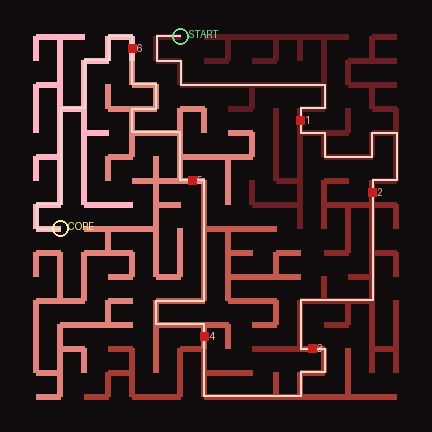
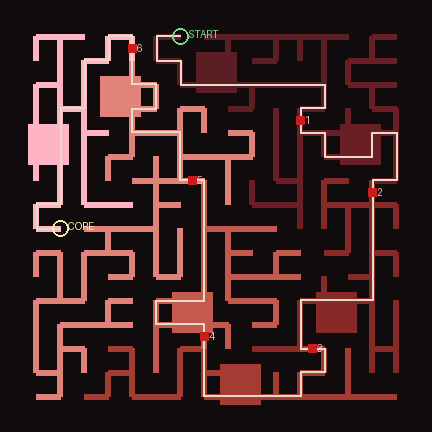
TND's city: plazas and streets
The player's choice: each district's heart -- the middle of its stretch
of the route -- opens into a plaza two nodes square, sized for a horde
fight, joined by the generator's streets and alleys; dead ends stay as
side alleys. Inside a plaza every neighbour is joined (the city's first
loops). 10 tests.

Claude-Session: https://claude.ai/code/session_01E1nQ3syAkWZFNt3GHAdQpF

diff --git a/games/tnd/city.py b/games/tnd/city.py
@@ -53,8 +53,9 @@ N_, E_, S_, W_ = 1, 2, 4, 8
 DIRS = ((0, 1, N_), (1, 0, E_), (0, -1, S_), (-1, 0, W_))   # (dx, dy, bit)
 OPP = {N_: S_, S_: N_, E_: W_, W_: E_}
 # piece kinds, by how many ways out and whether two are opposite
-DEAD, STRAIGHT, CORNER, TEE, CROSS = range(5)
-KIND_NAMES = ("dead end", "straight", "corner", "tee", "crossing")
+DEAD, STRAIGHT, CORNER, TEE, CROSS, PLAZA = range(6)
+KIND_NAMES = ("dead end", "straight", "corner", "tee", "crossing", "plaza")
+PLAZA_SPAN = 2                  # a plaza is PLAZA_SPAN x PLAZA_SPAN nodes, open
 
 
 def snake_path(s: int) -> tuple[list[int], int]:
@@ -95,6 +96,9 @@ class City:
     order: list[int] = field(default_factory=list)   # districts, in the order
                                                      # the route enters them
     flow: list[int] = field(default_factory=list)    # Terminal Limit's centrality
+    plaza: list[int] = field(default_factory=list)   # a plaza id a node, or -1
+    plazas: list[tuple[int, int]] = field(default_factory=list)   # each one's
+                                                     # lowest-left node (x, y)
 
     # ---- what the game needs ----------------------------------------------
     def xy(self, n: int) -> tuple[int, int]:
@@ -113,7 +117,10 @@ class City:
 
     def piece(self, n: int) -> tuple[int, int]:
         """(kind, quarter turns) of the piece at n. The unturned pieces:
-        dead end opens N; straight N-S; corner N-E; tee N-E-S (closed W)."""
+        dead end opens N; straight N-S; corner N-E; tee N-E-S (closed W);
+        a plaza's nodes are PLAZA, turn 0."""
+        if self.plaza and self.plaza[n] >= 0:
+            return PLAZA, 0
         bits = self.ways(n)
         k = bin(bits).count("1")
         for turn in range(4):
@@ -289,7 +296,46 @@ def generate(size: int = 16, seed: int = 666142, districts: int = 8) -> City:
             k += 1
             order.append(district[b])
     flow = _flow(adj, start)
-    return City(size, seed, adj, start, core, danger, district, gates, route, order, flow)
+    # PLAZAS AND STREETS (the player's choice, 2026-11-21): each district's
+    # heart -- the middle of its stretch of the route -- opens into a plaza
+    # PLAZA_SPAN nodes square, sized for a horde fight, joined by the
+    # generator's streets. Inside it every neighbour is joined (the open
+    # square), which is where the tree first grows loops.
+    plaza, plazas = [-1] * n, []
+    for d in range(nd):
+        stretch = [v for v in route if district[v] == d]
+        mid = stretch[len(stretch) // 2]
+        mx, my = mid % size, mid // size
+        best = None
+        for ox in range(-(PLAZA_SPAN - 1), 1):
+            for oy in range(-(PLAZA_SPAN - 1), 1):
+                x0, y0 = mx + ox, my + oy
+                if not (0 <= x0 and 0 <= y0 and x0 + PLAZA_SPAN <= size and y0 + PLAZA_SPAN <= size):
+                    continue
+                cells = [(x0 + i) + (y0 + j) * size for i in range(PLAZA_SPAN) for j in range(PLAZA_SPAN)]
+                if any(plaza[c] >= 0 for c in cells):
+                    continue
+                score = sum(district[c] == d for c in cells)
+                if best is None or score > best[0]:
+                    best = (score, x0, y0, cells)
+        if best is None:
+            continue
+        _, x0, y0, cells = best
+        pid = len(plazas)
+        plazas.append((x0, y0))
+        for c in cells:
+            plaza[c] = pid
+            district[c] = d
+        for c in cells:
+            for e in cells:
+                if e > c and abs(c % size - e % size) + abs(c // size - e // size) == 1 and e not in adj[c]:
+                    adj[c].append(e)
+                    adj[e].append(c)
+    for a in adj:
+        a.sort()
+    danger = [district[v] * (LEVELS - 1) // max(1, nd - 1) for v in range(n)]
+    return City(size, seed, adj, start, core, danger, district, gates, route, order, flow,
+                plaza, plazas)
 
 
 def render(city: City, path, scale: int = 24) -> None:
@@ -313,6 +359,12 @@ def render(city: City, path, scale: int = 24) -> None:
             if m > u:
                 c = heat(max(city.danger[u], city.danger[m]))
                 g.line([at(u), at(m)], fill=c, width=max(2, scale // 4))
+    for (x0, y0) in city.plazas:                   # the plazas, open squares
+        a = at(x0 + y0 * s)
+        b = at((x0 + PLAZA_SPAN - 1) + (y0 + PLAZA_SPAN - 1) * s)
+        g.rectangle([min(a[0], b[0]) - scale // 3, min(a[1], b[1]) - scale // 3,
+                     max(a[0], b[0]) + scale // 3, max(a[1], b[1]) + scale // 3],
+                    fill=heat(city.danger[x0 + y0 * s]))
     for a, b in zip(city.route, city.route[1:]):
         g.line([at(a), at(b)], fill=(230, 220, 200), width=max(1, scale // 10))
     for (u, m), k in city.gates.items():

diff --git a/tests/test_city.py b/tests/test_city.py
@@ -17,7 +17,10 @@ def test_the_city_is_one_tree_of_streets(seed):
     c = city.generate(16, seed)
     n = 256
     edges = {(min(u, m), max(u, m)) for u in range(n) for m in c.adj[u]}
-    assert len(edges) == n - 1
+    inside = {e for e in edges if c.plaza[e[0]] >= 0 and c.plaza[e[0]] == c.plaza[e[1]]}
+    # (a plaza joins all its own neighbours: an open square, the tree's
+    # only loops -- without them it is the spanning tree)
+    assert len(edges - inside) <= n - 1 and len(edges) >= n - 1
     dist, _ = city._bfs(c.adj, c.start)
     assert min(dist) == 0 and all(d >= 0 for d in dist)
     for u, m in edges:
@@ -25,7 +28,23 @@ def test_the_city_is_one_tree_of_streets(seed):
         assert abs(ux - mx) + abs(uy - my) == 1
     for v in range(n):
         kind, turn = c.piece(v)
+        if kind == city.PLAZA:
+            continue
         assert city._turn(_BASE[kind], turn) == c.ways(v)
+
+
+def test_every_district_opens_into_a_plaza():
+    """Plazas and streets: each district's heart is an open square of
+    PLAZA_SPAN x PLAZA_SPAN nodes, all in that district, joined inside."""
+    c = city.generate(16, 666142)
+    seen = set()
+    for pid, (x0, y0) in enumerate(c.plazas):
+        cells = [(x0 + i) + (y0 + j) * 16 for i in range(city.PLAZA_SPAN)
+                 for j in range(city.PLAZA_SPAN)]
+        assert all(c.plaza[v] == pid for v in cells)
+        seen.add(c.district[cells[0]])
+        assert len({c.district[v] for v in cells}) == 1
+    assert seen == set(range(c.districts())), "a district has no plaza"
 
 
 _BASE = {city.DEAD: city.N_, city.STRAIGHT: city.N_ | city.S_,
